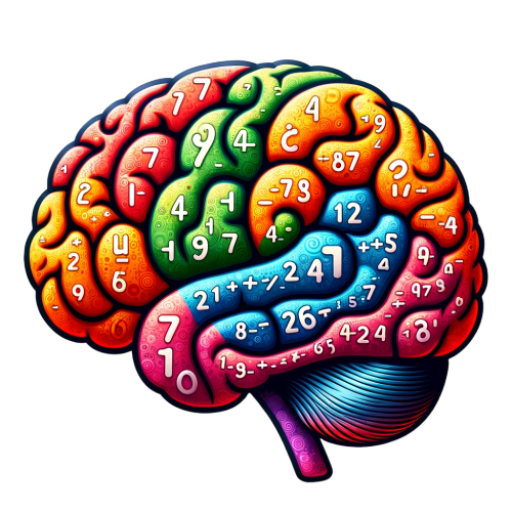
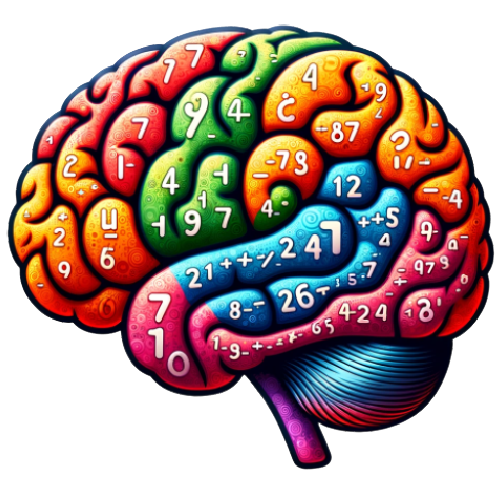
mejora visual

diff --git a/estilos.css b/estilos.css
@@ -15,7 +15,7 @@ h1 {
 
 #gameArea {
   border: 2px solid #ccc;
-  padding: 20px;
+  padding: 10px;
   background-color: rgba(255, 255, 255, 0.9); /* blanco con un poco de transparencia */
   border-radius: 10px;
 }
@@ -24,6 +24,8 @@ h1 {
 div#metricsContainer {
   display: flex;
   justify-content: space-between;
+  align-items:first baseline;
+  padding: 0px;
 }
 
 #questionArea,
@@ -41,6 +43,7 @@ div#metricsContainer {
 #statusArea {
   font-size: 18px;
   font-weight: bold;
+  width: 50%;
 }
 
 /* Áreas de texto e información */
@@ -51,6 +54,17 @@ div#metricsContainer {
 #livesArea {
   font-size: 1.2em;
   margin-bottom: 20px;
+}
+
+#questionAndInput {
+  display: flex;
+  align-items: center; /* Alinear verticalmente en el centro */
+  justify-content: space-between;
+}
+
+#questionArea, #timeArea {
+  margin-right: 40px; /* Añadir 20px de margen a la derecha */
+  padding-top: 20px;
 }
 
 /* Teclado numérico */
@@ -69,28 +83,11 @@ div#metricsContainer {
   color: green;
 }
 
-#statusArea {
-  width: 400px;
-}
-
 input#userInput {
   width: 50px; /* Ancho del cuadro */
   height: 40px; /* Altura del cuadro */
   font-size: 24px; /* Tamaño de la fuente */
   background-color: #FFD700;
-}
-
-#questionAndInput {
-  display: flex;
-  align-items: center; /* Alinear verticalmente en el centro */
-  justify-content: space-between;
-}
-
-#questionArea {
-  margin-right: 2px; /* Añadir 20px de margen a la derecha */
-}
-
-input#userInput {
   margin-left: 2px; /* Añadir 20px de margen a la izquierda */
 }
 
@@ -120,7 +117,6 @@ button:hover {
 #gameContainer {
   display: flex;
   justify-content: space-between;
-  align-items: center;
 }
 
 #numericKeypad {
@@ -132,10 +128,9 @@ button:hover {
   display: flex; /* Si quieres que la imagen dentro se alinee correctamente */
   justify-content: center; /* Centrar la imagen horizontalmente en el contenedor */
   align-items: center; /* Centrar la imagen verticalmente en el contenedor */
-  padding-left: 20px; /* Agrega espacio si es necesario */
 }
 
 #levelImage {
-  width: 60%; /* Ajusta esto para que se adapte al tamaño de tu gráfico-section */
+  width: 40%; /* Ajusta esto para que se adapte al tamaño de tu gráfico-section */
   height: auto; /* Esto mantendrá la relación de aspecto de la imagen */
 }

diff --git a/index.html b/index.html
@@ -8,19 +8,10 @@
 <body>
     <div id="gameArea">
         <div id="metricsContainer">
-           <h1>El juego de las sumas!</h1>
+           <div id="titulo"><h1>El juego de las sumas!</h1></div>
            <div id="livesArea">Vidas: 3</div>
            <div id="scoreArea">Puntuación: 0</div>
            <div id="difficultyArea">Nivel: Fácil</div>
-        </div>
-
-        <div id="questionAndInput">
-            <div>
-                <div id="questionArea">¿Cuánto es 2 + 2? </div>
-                <input type="text" id="userInput" readonly>
-            </div>
-            <div id="timerArea"> </div>
-            <div id="statusArea"> </div>
         </div>
 
         <div id="gameContainer">
@@ -44,6 +35,16 @@
               <img id="levelImage" src="principiante.png" alt="Gráfico del nivel" />
             </div>
         </div>
+
+        <div id="questionAndInput">
+            <div>
+                <div id="questionArea">¿Cuánto es 2 + 2? </div>
+                <input type="text" id="userInput" readonly>
+            </div>
+            <div id="timerArea"> </div>
+            <div id="statusArea"> </div>
+        </div>
+
     </div>
 <script src="tricks.js"></script>
 </body>
